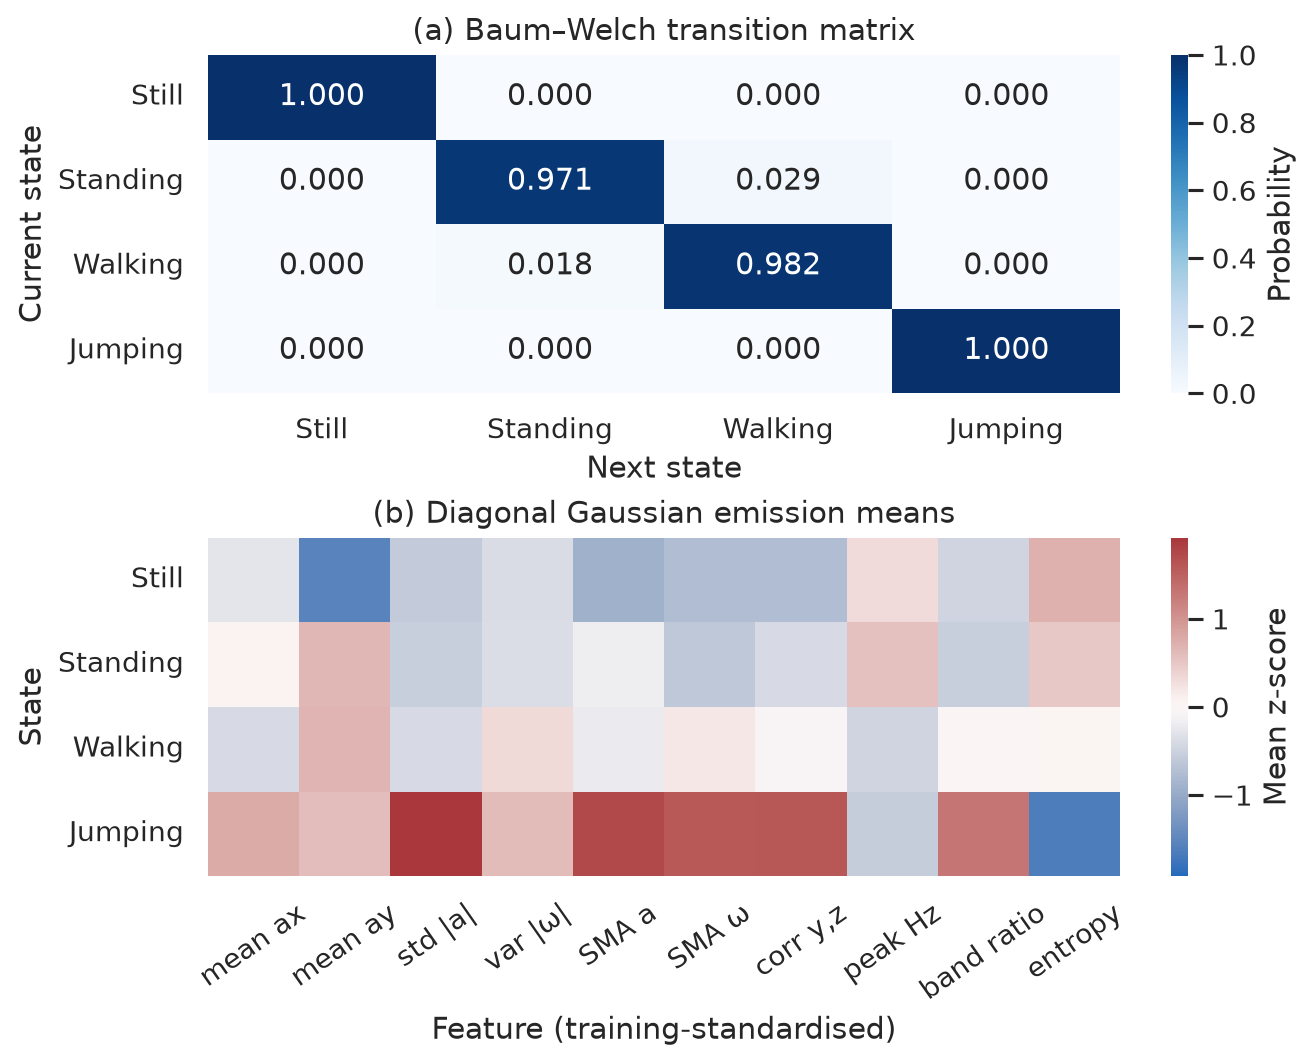
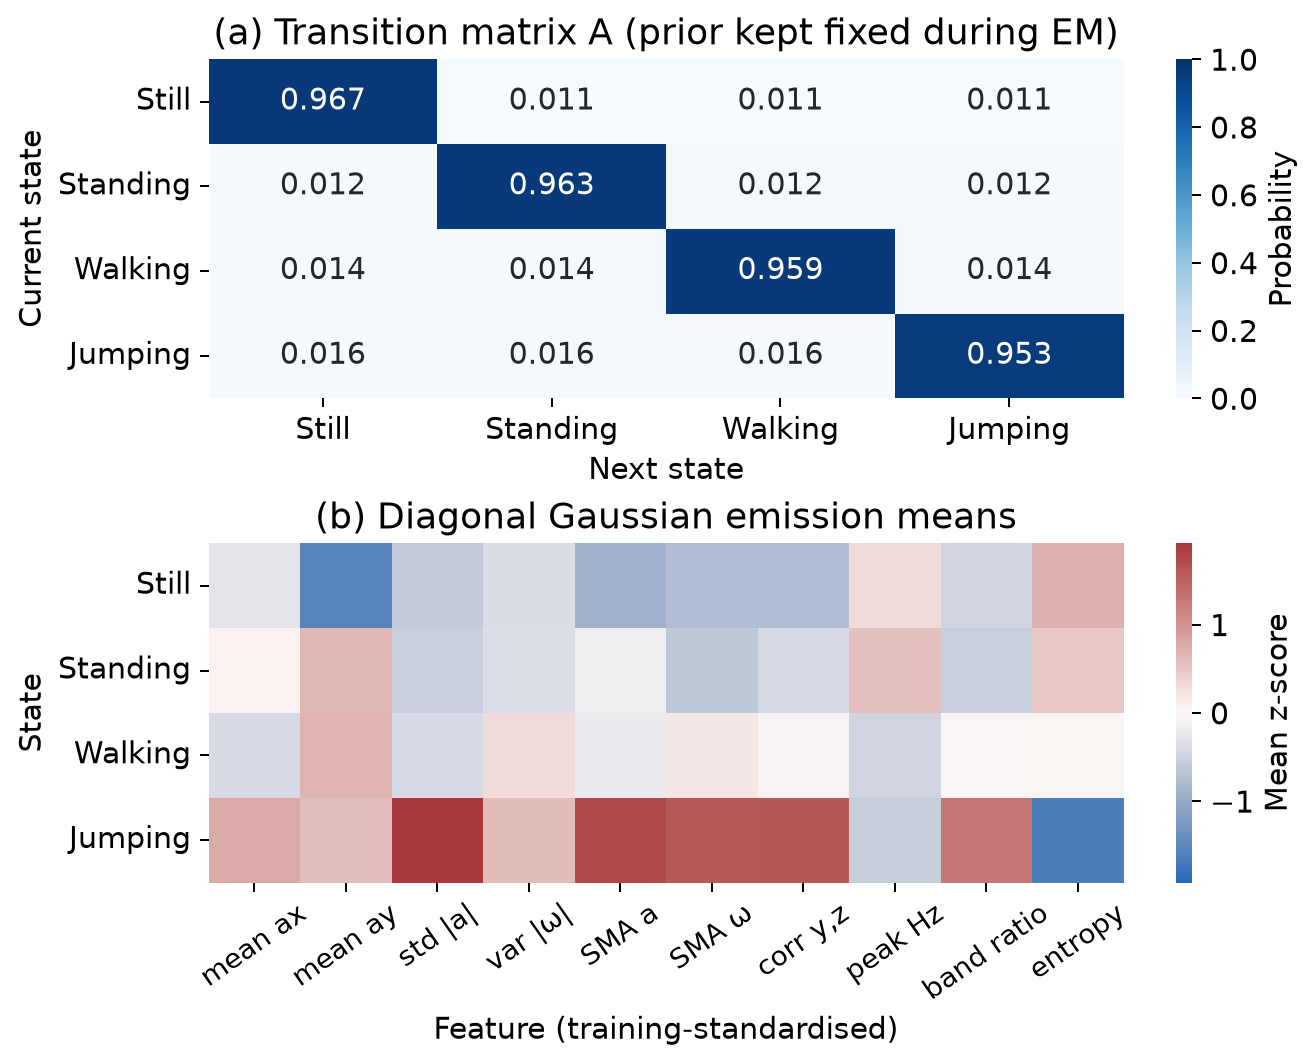
feat(plots): decode continuous sessions to show predicted transitions

diff --git a/scripts/activity_plots.py b/scripts/activity_plots.py
@@ -8,12 +8,18 @@ import matplotlib.pyplot as plt
 import seaborn as sns
 
 if __package__:
-    from .train_activity import load_models, file_hash
+    from .train_activity import load_models, file_hash, model_from_parameters
+    from .features import load_feature_sequences
 else:
-    from train_activity import load_models, file_hash
+    from train_activity import load_models, file_hash, model_from_parameters
+    from features import load_feature_sequences
 
 SHORT_FEATURES = ['mean ax', 'mean ay', 'std |a|', 'var |ω|', 'SMA a', 'SMA ω',
                   'corr y,z', 'peak Hz', 'band ratio', 'entropy']
+# Fixed categorical order (validated for colour-vision deficiency); colour follows the activity.
+ACTIVITY_COLOURS = {'still': '#2a78d6', 'standing': '#eb6834', 'walking': '#1baf7a', 'jumping': '#eda100'}
+SESSION_MODELS = {'baum_welch': 'Primary HMM\n(A fixed in EM)',
+                  'baum_welch_free_transitions': 'Free-A HMM\n(comparison)'}
 
 
 def aligned_parameters(frozen, name):
@@ -33,7 +39,8 @@ def plot_parameters(frozen):
         fig, axes = plt.subplots(2, 1, figsize=(7.2, 5.8), layout='constrained')
         sns.heatmap(values['A'], annot=True, fmt='.3f', vmin=0, vmax=1, cmap='Blues',
                     xticklabels=labels, yticklabels=labels, ax=axes[0], cbar_kws={'label': 'Probability'})
-        axes[0].set(title='(a) Baum–Welch transition matrix', xlabel='Next state', ylabel='Current state')
+        axes[0].set(title='(a) Transition matrix A (prior kept fixed during EM)', xlabel='Next state',
+                    ylabel='Current state')
         limit = max(1.0, float(np.max(abs(values['means']))))
         sns.heatmap(values['means'], cmap='vlag', center=0, vmin=-limit, vmax=limit,
                     xticklabels=SHORT_FEATURES, yticklabels=labels, ax=axes[1], cbar_kws={'label': 'Mean z-score'})
@@ -45,9 +52,9 @@ def plot_parameters(frozen):
 
 
 def plot_transition_comparison(frozen):
-    """Notebook-only before/after transition matrices, aligned using training maps."""
-    fig, axes = plt.subplots(1, 2, figsize=(10, 3.5), layout='constrained')
-    for ax, name in zip(axes, ['supervised', 'baum_welch']):
+    """Notebook-only transition matrices: supervised prior, primary EM and free-A EM."""
+    fig, axes = plt.subplots(1, 3, figsize=(15, 3.5), layout='constrained')
+    for ax, name in zip(axes, ['supervised', 'baum_welch', 'baum_welch_free_transitions']):
         sns.heatmap(aligned_parameters(frozen, name)['A'], annot=True, fmt='.3f',
                     vmin=0, vmax=1, cmap='Blues', xticklabels=frozen['state_order'],
                     yticklabels=frozen['state_order'], cbar=False, ax=ax)
@@ -133,8 +140,85 @@ def plot_timelines(root, frozen, predictions, names):
         return fig
 
 
+def decode_sessions(root, frozen, models=tuple(SESSION_MODELS)):
+    """Viterbi-decode each unlabelled session block separately with frozen models.
+
+    The blocks have no verified labels, so this is a qualitative check of
+    predicted transitions only; no metric is computed from it. Blocks are never
+    joined across sensor outages. Returns one row per window and model.
+    """
+    rows = []
+    sequences = load_feature_sequences(root, 'unlabelled')
+    for name in models:
+        record = frozen['models'][name]
+        model = model_from_parameters(record, frozen['protocol'])
+        mapping = np.array(record['state_to_label'])
+        for item in sequences:
+            predicted = mapping[model.predict_viterbi(item['X'])]
+            frame = item['windows'][['sequence_id', 'window_index', 'start_s', 'stop_s']].copy()
+            frame['model'] = name
+            frame['predicted_activity'] = np.array(frozen['state_order'])[predicted]
+            rows.append(frame)
+    return pd.concat(rows, ignore_index=True)
+
+
+def _runs(starts, stops, labels):
+    """Merge consecutive equal labels into (start, stop, label) segments."""
+    segments = []
+    for start, stop, label in zip(starts, stops, labels):
+        if segments and segments[-1][2] == label and abs(segments[-1][1] - start) < 1e-6:
+            segments[-1][1] = stop
+        else:
+            segments.append([start, stop, label])
+    return segments
+
+
+def plot_session_decoding(root, frozen, decoded, recording='train_session_01'):
+    """Figure 4: decoded activity bands for one continuous session, above |a|.
+
+    Each 2 s window is drawn over its central 1 s (the hop), so bands tile the
+    time axis. The planned schedule is the approximate timer protocol, shown for
+    orientation only; it is not verified ground truth.
+    """
+    root = Path(root)
+    blocks = pd.read_csv(root/'data/quality/unlabelled_sequences.csv')
+    blocks = blocks[blocks.recording == recording].sort_values('start_s')
+    schedule = pd.read_csv(root/'data/labels'/f'{recording}.csv')
+    rows = [('Planned schedule\n(approximate)', [(r.start_s, r.end_s, r.activity) for r in schedule.itertuples()])]
+    for name, label in SESSION_MODELS.items():
+        part = decoded[(decoded.model == name) & decoded.sequence_id.str.startswith(recording)]
+        centres = (part.start_s + part.stop_s) / 2
+        rows.append((label, _runs(centres - .5, centres + .5, part.predicted_activity)))
+    outages = list(zip(blocks.end_s.iloc[:-1], blocks.start_s.iloc[1:]))
+    with plt.rc_context({'font.size': 11}):
+        fig, axes = plt.subplots(2, 1, figsize=(9, 4.4), sharex=True, layout='constrained',
+                                 gridspec_kw={'height_ratios': [1.5, 1]})
+        bands = axes[0]
+        for y, (_, segments) in enumerate(rows):
+            for start, stop, activity in segments:
+                bands.barh(y, stop - start, left=start, height=.62, color=ACTIVITY_COLOURS[activity],
+                           edgecolor='white', linewidth=1.5)
+        for ax in axes:
+            for start, stop in outages:
+                ax.axvspan(start, stop, facecolor='0.92', hatch='//', edgecolor='0.75', linewidth=0, zorder=0)
+        for start, stop in outages:
+            bands.text((start + stop) / 2, len(rows) - .45, 'outage', ha='center', va='bottom', fontsize=9, color='0.35')
+        bands.set(yticks=range(len(rows)), yticklabels=[label for label, _ in rows], ylim=(len(rows) - .2, -.6))
+        bands.grid(False)
+        handles = [plt.Rectangle((0, 0), 1, 1, color=c) for c in ACTIVITY_COLOURS.values()]
+        bands.legend(handles, [a.title() for a in ACTIVITY_COLOURS], ncol=4, loc='lower center',
+                     bbox_to_anchor=(.5, 1.0), frameon=False)
+        for sequence in blocks.sequence:
+            processed = pd.read_csv(root/'data/processed/unlabelled/sessions'/f'{sequence}.csv')
+            magnitude = np.linalg.norm(processed[['acc_x', 'acc_y', 'acc_z']].to_numpy(), axis=1)
+            axes[1].plot(processed.seconds_elapsed, magnitude, color='0.25', linewidth=.8)
+        axes[1].set(xlabel=f'Seconds since {recording} started', ylabel='|a| (m/s²)')
+        axes[1].grid(alpha=.2)
+        return fig
+
+
 def generate_figures(root):
-    """Export report Figures 2–4 at 180 dpi from the fixed primary model/results."""
+    """Export report Figures 2–4 (and notebook-only test timelines) at 180 dpi."""
     root = Path(root)
     frozen = load_models(root)
     summary = json.loads((root/'data/evaluation/summary.json').read_text())
@@ -149,9 +233,12 @@ def generate_figures(root):
     manifest = pd.read_csv(root/'data/split_manifest.csv')
     names = [sorted(manifest.loc[(manifest.split=='test') & (manifest.activity==label), 'file'])[0]
              for label in frozen['state_order']]
+    decoded = decode_sessions(root, frozen)
+    decoded.to_csv(root/'data/evaluation/session_decoding.csv', index=False)
     figures = {'fig2_transition_emissions.png': plot_parameters(frozen),
                'fig3_confusion_convergence.png': plot_confusion_and_convergence(frozen, confusion),
-               'fig4_test_timelines.png': plot_timelines(root, frozen, predictions, names)}
+               'fig4_session_decoding.png': plot_session_decoding(root, frozen, decoded),
+               'test_clip_timelines.png': plot_timelines(root, frozen, predictions, names)}
     for filename, fig in figures.items():
         fig.savefig(root/'figures'/filename, dpi=180, bbox_inches='tight')
     return figures
